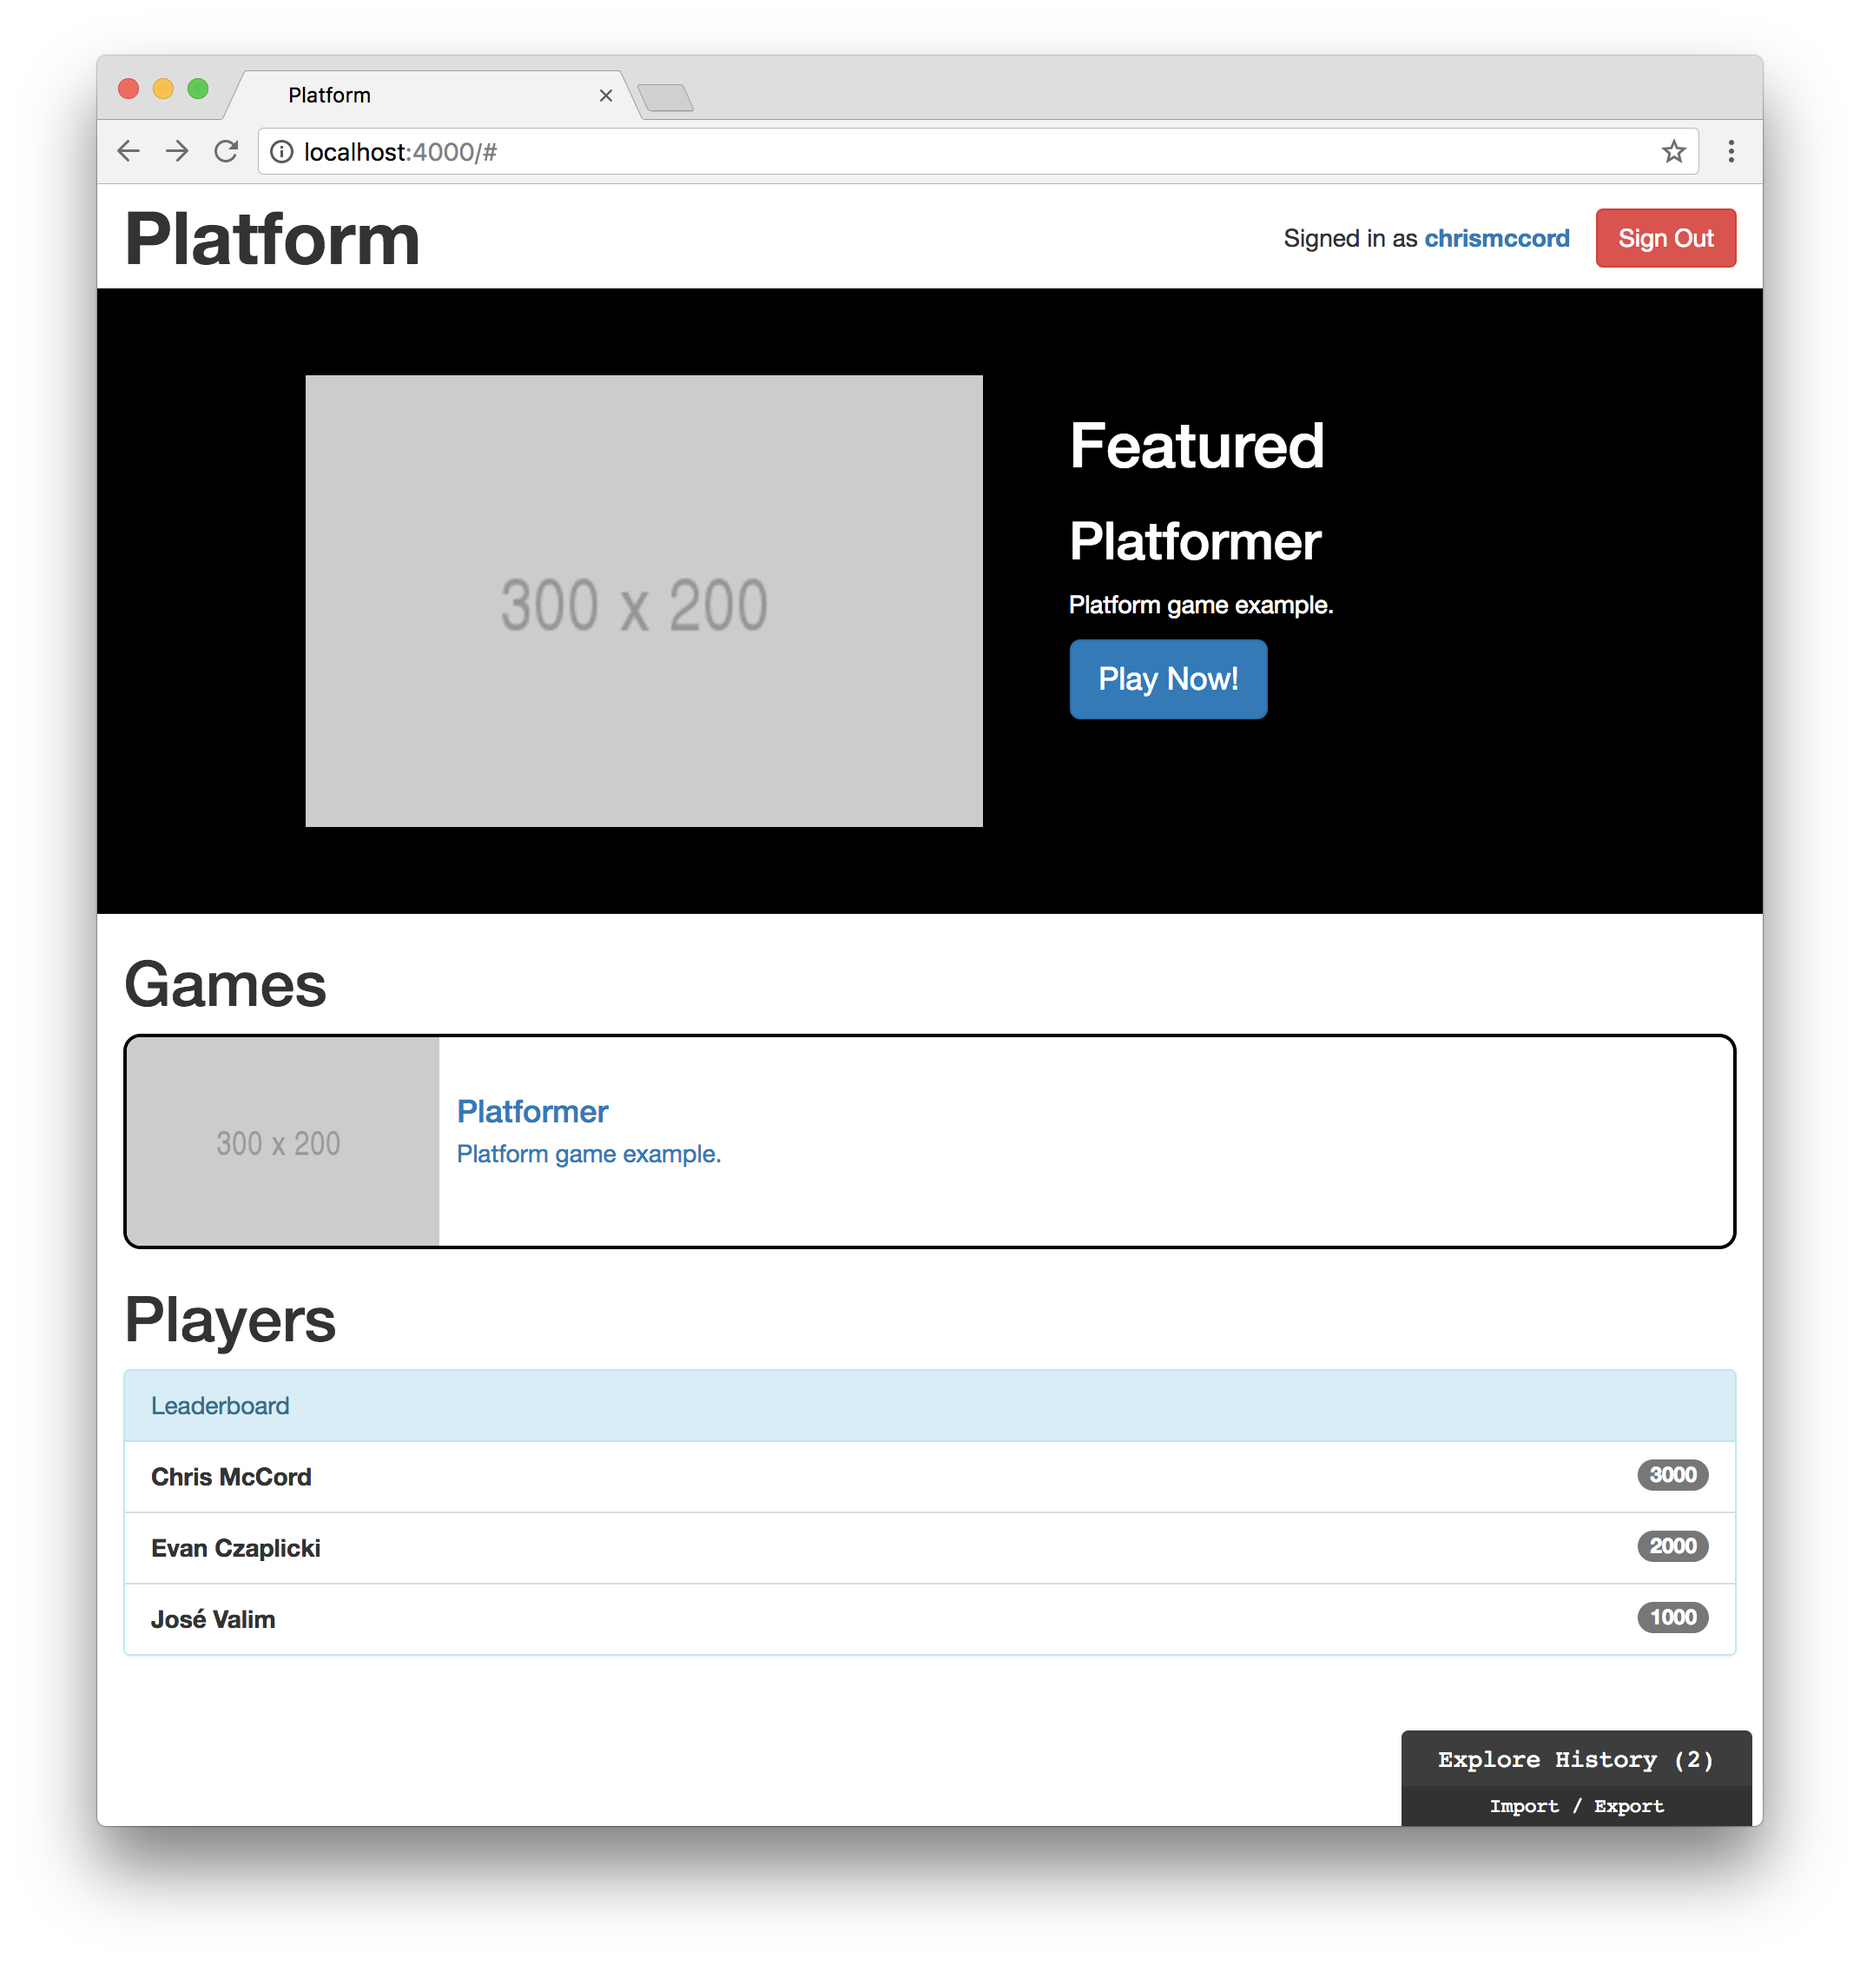
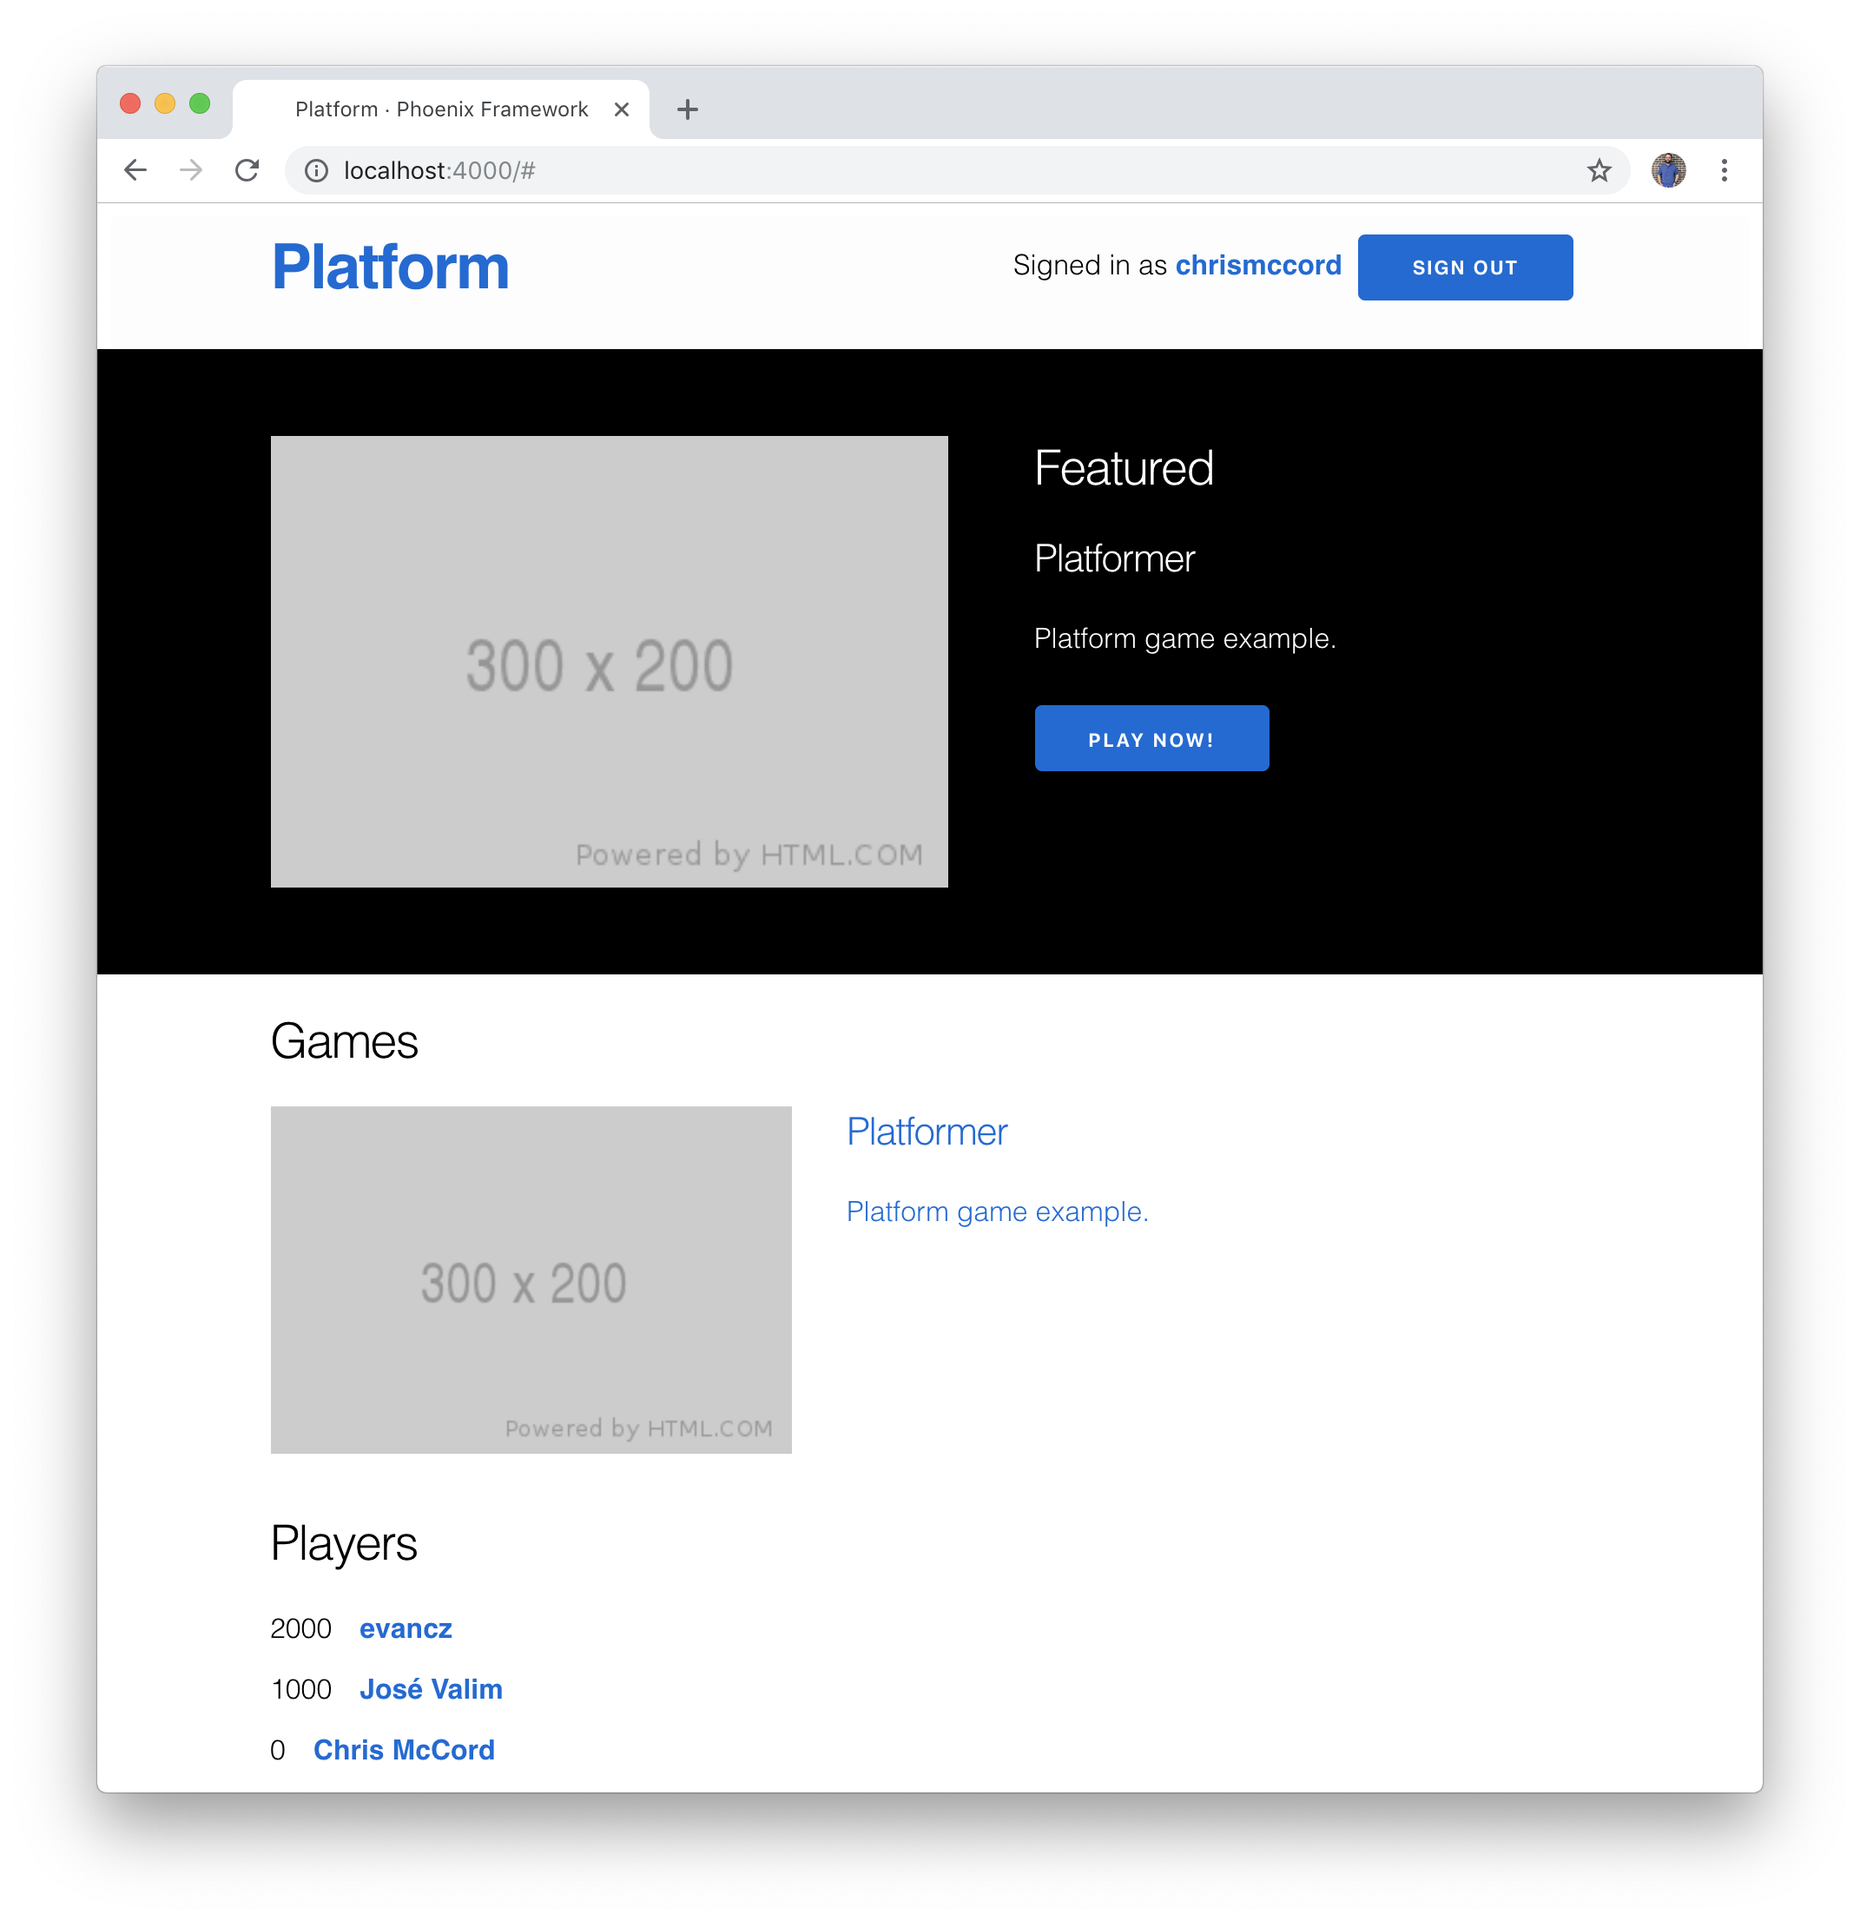
Finishing revisions for the Design chapter

diff --git a/manuscript/design_and_usability.md b/manuscript/design_and_usability.md
@@ -597,10 +597,6 @@ games.
   margin-top: 2rem;
 }
 
-.games-list {
-  list-style-type: none;
-}
-
 .game-item {
   display: flex;
 }
@@ -620,46 +616,62 @@ but feel free to add games and get creative with the styles.
 
 ## List of Players
 
-Lastly, let's style our list of players into a leaderboard. Bootstrap has a
-[panel component](https://getbootstrap.com/docs/3.3/components/#panels) that we
-can use to wrap around our player list. Then, we can use the
-[list group component](https://getbootstrap.com/docs/3.3/components/#list-group)
-to display each player along with their current score.
+Lastly, let's style our list of players into a leaderboard.
 
-Update the `playersList` function and `playersListItem` function with the
-following and Bootstrap will take care of the styling for us:
+We'll start by updating our `playersIndex` function to center the players on
+the page like we did above for the list of games.
 
 ```elm
-playersList : List Player -> Html msg
-playersList players =
-    div [ class "players-list panel panel-info" ]
-        [ div [ class "panel-heading" ] [ text "Leaderboard" ]
-        , ul [ class "list-group" ] (List.map playersListItem players)
-        ]
-
-
-playersListItem : Player -> Html msg
-playersListItem player =
-    let
-        displayName =
-            if player.displayName == Nothing then
-                player.username
-            else
-                Maybe.withDefault "" player.displayName
-
-        playerLink =
-            "players/" ++ (toString player.id)
-    in
-        li [ class "player-item list-group-item" ]
-            [ strong [] [ a [ href playerLink ] [ text displayName ] ]
-            , span [ class "badge" ] [ text (toString player.score) ]
+playersIndex : Model -> Html msg
+playersIndex model =
+    -- ...
+        div [ class "players-index container" ]
+            [ h2 [] [ text "Players" ]
+            , model.playersList
+                |> playersSortedByScore
+                |> playersList
             ]
 ```
 
-Looks like this works well for our purposes. We've got our sorted list of
-players displaying inside a leaderboard with their display names and scores.
-And we also added links to the individual player pages, which we can use to
-track more detailed score data later.
+Next, we'll update the `playersListItem` function to display each player's name
+and score information. We're also adding links to the individual player pages,
+which we can use to track more detailed score data later.
+
+```elm
+playersListItem : Player -> Html msg
+playersListItem player =
+    let
+        playerLink name =
+            a [ href ("players/" ++ String.fromInt player.id) ]
+                [ strong [ class "player-name" ] [ text name ] ]
+    in
+    li [ class "player-item" ]
+        [ p [ class "player-score" ] [ text (String.fromInt player.score) ]
+        , case player.displayName of
+            Just displayName ->
+                playerLink displayName
+
+            Nothing ->
+                playerLink player.username
+        ]
+```
+
+To finish up with styling our list of players, let's switch back over to the
+`app.css` file and add the following:
+
+```css
+.player-item {
+  display: flex;
+}
+
+.player-score {
+  margin-bottom: 0;
+}
+
+.player-name {
+  margin-left: 1em;
+}
+```
 
 ![Player Leaderboard](images/design_and_usability/player_leaderboard.png)
 
@@ -667,7 +679,11 @@ track more detailed score data later.
 
 This book is primarily focused on working with Elixir and Elm, but this chapter
 was a fun aside into seeing how we can still use a familiar approach to styling
-with CSS and Bootstrap within the context of a Phoenix application.
+with CSS within the context of a Phoenix application.
+
+We used the default CSS framework that comes bundled with Phoenix by default,
+but it's worth noting that it's relatively trivial to drop in a CSS file for
+any other CSS framework that you like to use.
 
 We have our Phoenix API up and running, and our Elm application is pulling in
 all the sample data. Let's move on to creating a game with Elm and pulling
